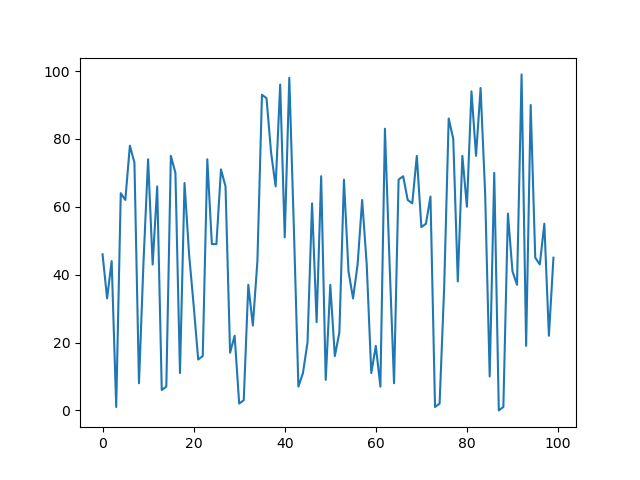
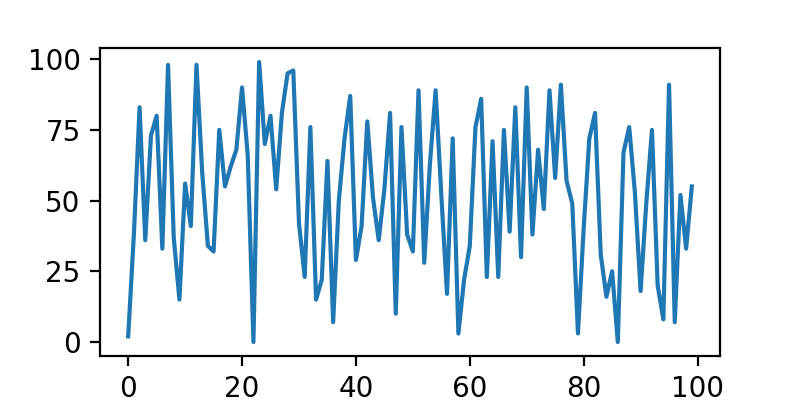
update

diff --git a/templates/data_display_page.html b/templates/data_display_page.html
@@ -4,7 +4,7 @@
 Generated on {{ date_generated }} 
 <br/>
 
-<img src="{{ img_url }}" alt="{{ img_url }}" width="500" height="600">
+<img src="{{ img_url }}" alt="{{ img_url }}" width="{{ img_w }}" height="{{ img_h }}">
 <br/>
 
 Click <a href="{{ home_link }}">here</a> to go home.

diff --git a/website.py b/website.py
@@ -42,12 +42,15 @@ def home_page():
 @app.route('/data/')
 def covid_page():
     img_path, img_url = get_plot_path('plot0.png')
-    generate_plot(img_path)
+    img_w, img_h = 800, 400
+    generate_plot(img_path, width=img_w, height=img_h)
 
     return render_template('data_display_page.html',
             home_link=url_for('home_page'),
             date_generated=now(),
             img_url=img_url,
+            img_w=img_w,
+            img_h=img_h,
             )
 
 if __name__ == '__main__':

diff --git a/data.py b/data.py
@@ -8,7 +8,7 @@ pl.ioff()
 def now():
     return pd.Timestamp.now().strftime('%Y-%m-%d at %H:%M')
 
-def generate_plot(filepath):
-    fig, ax = pl.subplots()
+def generate_plot(filepath, width=100, height=100, dpi=200):
+    fig, ax = pl.subplots(figsize=(width/dpi, height/dpi), dpi=dpi)
     ax.plot(np.random.randint(100, size=100))
     fig.savefig(filepath)
